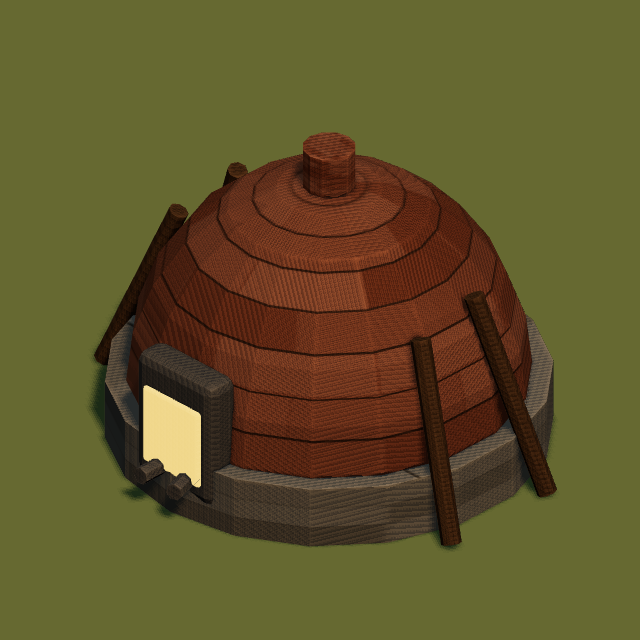
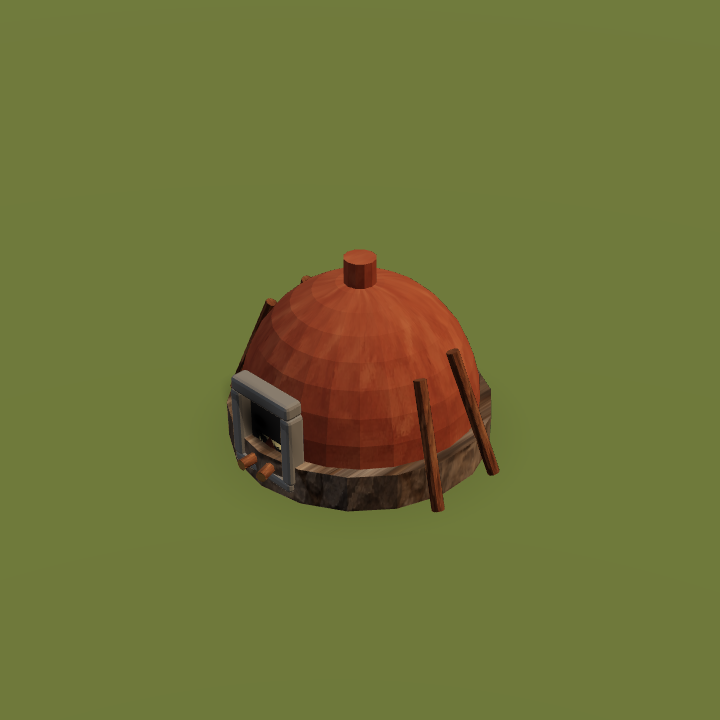
docs(buildings): round-14 renders, structures.json revision note, material table, HANDOFF addendum 11

diff --git a/assets/buildings-3d/README.md b/assets/buildings-3d/README.md
@@ -1,31 +1,90 @@
-# buildings-3d — 設置建物13種の3Dモデル（2026-11-07）
+# buildings-3d — 設置建物13種の3Dモデル（2026-11-07、テクスチャ改修 第14ラウンド）
 
 原画（`../buildings-icons/source/buildings-1.jpg` / `buildings-2.jpg`）を
 設計図として、Blenderで実モデル化した設置建物13種。単色の箱・球の
 組み合わせではなく、構造（骨組み・開口・付属設備）→輪郭→色面→質感
-（手続きテクスチャ）の順に作り込んである。
+の順に作り込んである。
+
+**第14ラウンド（2026-11-07）**: オーナー提供の素材原画3枚
+（`source-gpt/sheet-1..3.jpg`、各2×2=12素材）を使い、全13種の外観を
+改修した。手続きテクスチャは廃止し、原画由来の素材に差し替え。
+UVは全面ごとに実寸スケールへ正規化し、全建物でテクスチャ密度を
+統一した（下記「素材と適用先」参照）。
 
 ## 構成
 
 - `models/<id>.glb` — ゲーム導入用GLB（原点=接地中心、1単位=1m、前面=+Z）
-- `textures/*.png` — 手続き生成テクスチャ14種（512px、モデルに埋め込み済み。
-  単体でも環境テクスチャとして再利用可）
+- `textures/*.png` — 素材テクスチャ12種×（albedo 512px / 法線 256px /
+  粗さ 256px）＋補助4種（年輪・煤デカール・炎カード・接地影）。
+  モデルに埋め込み済み。旧・手続きテクスチャ14種は廃止（git履歴に残存）
 - `structures.json` — ID・寸法・占有形状（footprint）・入口・操作位置・
   可動部・素材メモの対応表（Claudeの組み込み用）
 - `renders/<id>.png` — three.js（ゲームと同バージョン0.180）ビューアで
   ゲームの探索カメラ（pitch 32° / yaw 45°）から撮った確認画像。
   `renders/contact-sheet.png` に13種の一覧もある
-- `tools/make_textures.py` / `tools/build_buildings.py` — 再生成パイプライン
-  （`blender -b -noaudio --python tools/build_buildings.py -- models --render`）
+- `tools/process_textures.py` — 素材加工（切り出し・タイリング化・
+  法線/粗さ生成・補助テクスチャ生成）。継ぎ目検証値は
+  `texture-report.json`、2×2タイリング確認画像は `previews/`
+- `tools/build_buildings.py` — モデル再生成
+  （`blender -b -noaudio --python tools/build_buildings.py -- models`）
+
+## 素材と適用先（第14ラウンド）
+
+素材原画は未加工の2×2シート。各素材を個別に切り出し（境界は内側に
+寄せて隣の混入を回避）、構造素材（板材・草葺き・レンガ・瓦・金属
+屋根）は模様の周期に合わせて切り抜いてタイリング化、有機素材は
+端部クロスフェードで継ぎ目を消した。原画の強い陰影は平坦化し、
+彩度・コントラストはキャラクターに合わせて抑制。
+
+法線マップは**色の明暗からではなく構造から**生成：レンガ/石積みは
+目地マスク、板材は板の溝、瓦は重なり、金属屋根はリブ、樹皮は縦の
+隆起。木目や銅の緑青などの色むらは凹凸にしていない（銅の法線は
+ほぼ平坦）。粗さは絶対値マップ（目地は粗く、銅の地金部は滑らか・
+緑青部は粗い、鋳鉄は斑で変化）。
+
+| 素材 | 主な適用先 |
+|---|---|
+| 板材 planks（木目=部材長手方向に2向き用意） | 作業台の天板・棚、水車の羽根板・導水板、研究室の実験台、工場の扉・木箱、やぐらの床・小屋 |
+| 草葺き thatch | 小屋の屋根（棟→軒の流れ＋軒先の房飾り） |
+| 土壁 earth | 小屋の壁 |
+| 樹皮 bark | 丸太部材全般（脚・柱・支柱・車軸）。切断面は年輪テクスチャを別途適用 |
+| 自然石 stone | 土台・基礎・炉の基部（広い面用 stone 大タイル／薄い面用 stone オフセット版も用意） |
+| 焼き土 clay | 窯のドーム（横線なし）、製錬炉の炉体 |
+| レンガ brick（実寸スケール） | 工場の壁・煙突、発電所のボイラー棟・煙突 |
+| 瓦 tile | 研究室の屋根 |
+| 鋳鉄 iron（斑・明度調整済み） | 蒸気機関のボイラー・台枠・フライホイール、精留塔の足場・梯子、工場の窓枠 |
+| 銅 copper（緑青は局所） | 精留塔の凝縮器・配管、蒸気機関の配管、研究室の蒸留ポット、変圧器のブッシング |
+| 金属屋根 metalroof（リブ方向2種） | 工場の鋸屋根、発電所のアーチ屋根、研究所の屋根、小屋根・庇 |
+| 漆喰 plaster | 研究室の壁、研究所の外壁、発電所のホール壁 |
+
+建物ごとの変更点（形状修正）:
+- たき火: 三角形の炎→十字の炎カード（輪郭の揺らぎ＋発光グラデ）＋
+  小さな芯コーン。熾火の粒・灰床・薪（樹皮＋年輪の切断面）を分離
+- 窯: 焚き口を石枠＋実奥行きのある暗い空洞に再構成し、発光は内部の
+  低位置のみ。煤は口周辺だけにデカールで局所配置
+- 小屋: 軒先に不揃いな草の房を追加
+- 製錬炉: 炉口に空洞＋小さな内部発光を追加
+- 窓: 白い発光板→枠＋暗いガラスが基本。光る窓は工場1枚・研究所の
+  フラスコ1点・発電所の丸窓だけに限定
+- 全建物: 接地に柔らかい放射グラデーションの影（`ContactShadow`
+  ノード）を追加。四角い地面絵の焼き込みではない。地形と干渉する
+  場合はこのノードだけ外せる
+- 水車: 橋脚の下部だけ濡れ石（暗色・低粗さ）に。回転する車輪側は
+  濡れ表現を付けていない（回転で不自然になるため）
+
+GLB合計は約24.6MB（1体あたり0.5〜2.8MB）。テクスチャ埋め込みのため
+第13ラウンド比で増えている。軽量化が必要な場合は、法線/粗さを
+落とすか albedo 256px 版の再生成（`process_textures.py` の SIZE）を
+検討すること。
 
 ## 対応表（構造物タイプ → モデル）
 
 | 構造物ID | 名称 | 対応する設備ID | サイズ W×D×H (m) | 可動部・分離部 |
 |---|---|---|---|---|
 | workbench | 作業台 | bench | 2.2×1.05×1.23 | — |
-| campfire | たき火 | campfire | 1.52×1.47×0.75 | Flame（炎、分離） |
+| campfire | たき火 | campfire | 1.52×1.47×0.83 | Flame（炎カード、分離） |
 | kiln | 窯 | kiln（かまど） | 2.46×2.28×1.6 | — |
-| hut | 小屋 | —（stage連動） | 3.8×3.38×3.16 | — |
+| hut | 小屋 | —（stage連動） | 3.8×3.40×3.16 | — |
 | smelter | 製錬炉 | furnace（簡易炉） | 3.65×2.75×2.29 | Bellows（ふいご一式） |
 | laboratory | 研究施設 | —（stage連動） | 4.6×3.22×3.8 | — |
 | steam-engine | 蒸気機関 | steamengine | 2.93×1.38×2.28 | Wheel（フライホイール）/ Piston |
@@ -33,7 +92,7 @@
 | factory | 工場 | —（stage連動） | 5.2×4.25×5.04 | — |
 | power-plant | 発電所 | —（段階建物） | 5.53×3.46×5.32 | — |
 | research-institute | 研究所 | —（stage連動） | 5.65×4.2×4.68 | — |
-| waterwheel | 水車 | waterwheel | 2.3×1.71×2.55 | Wheel（羽根板車輪） |
+| waterwheel | 水車 | waterwheel | 2.3×1.73×2.56 | Wheel（羽根板車輪） |
 | drilling-rig | 掘削やぐら | rig | 2.9×2.55×3.56 | DrillPipe / Winch |
 
 寸法は three.js 上での実測値。占有形状などの正式値は `structures.json`。
@@ -57,17 +116,24 @@
 現行の `StructureRenderer` はファクトリ差し替え式で、ヘッダーコメント
 どおり GLB 読み込みのファクトリを `registerFactory` で登録すれば
 呼び出し側は無変更で置き換わる。GLBの配信方法（単一ファイルビルドへの
-同梱か、assets 配信か）はゲーム側の構成に合わせること。モバイル向けには
-同一モデルの低ポリ版を別途出す代わりに、まず本モデルで実測し、重い
-機種だけテクスチャ 256px 版への差し替えを検討（テクスチャは
-`tools/make_textures.py` の S を変えて再生成可能）。
+同梱か、assets 配信か）はゲーム側の構成に合わせること。寸法・占有・
+入口・操作位置は第13ラウンドから不変（炎カード化でたき火の高さのみ
+0.75→0.83、水車と小屋は装飾分 +0.02）。
 
 ## 検証範囲
 
 - three.js（ゲームと同バージョン 0.180）のビューアで、ゲームの探索
   カメラ（pitch 32° / yaw 45°）から全13種を確認（renders/）。
-  可動部（Wheel / Piston / DrillPipe / Winch）の回転・移動の向きも
-  同ビューアで確認済み（Wheel は rotation.z で盤面内回転を確認）。
-  Blender の EEVEE レンダーはこの VM に libEGL がなく未実施 —
+  第13ラウンドのGLBも同じビューア・同じ画角で撮り直し、前後比較を
+  揃えた。可動部（Wheel / Piston / DrillPipe / Winch）の回転・移動も
+  再確認済み（変形後のフレーム差分で計測）。
+- スマホ相当サイズ（220px表示）でも全13種の判読性を確認済み。
+- テクスチャの継ぎ目：有機素材は継ぎ目指標 ≒1.0（継ぎ目なしと同等）。
+  構造素材は周期切り抜きで目視確認済み（`previews/tiling-*.png`）。
+  高コントラスト模様では指標が大きめに出るため目視を正とした。
+- 残課題: 窯ドームは球面UVのため、土の渦巻き模様が緩い帯状に見える
+  （レンガ状の横線ではない）。気になる場合はドーム専用の
+  テクスチャ再生成が別途必要。
+- Blender の EEVEE レンダーはこの VM に libEGL がなく未実施 —
   代替として実エンジン（three.js）での確認を優先した。
-- 実ゲーム内での配置確認は未実施（Claudeの組み込み後）。
+- 実ゲーム内での配置確認・実機 FPS は未実施（Claudeの組み込み後）。

diff --git a/threejs-hd2d-graphics/HANDOFF-TO-CLAUDE.md b/threejs-hd2d-graphics/HANDOFF-TO-CLAUDE.md
@@ -281,3 +281,38 @@ gpt-forest の上に積んだブランチ。詳細は INTEGRATION.md §16。
 - シート切り出し時にセグメンテーション（rembg / isnet-general-use）の前景マスクと照合し、フラッドフィルで前景になった画素でもモデルが背景と判定した画素を除外（全シート計86,667px）。平坦さ判定のポケット除去も仕上げに併用。
 - 結果：配線ループの内側、机の脚の間、精留塔の配管の隙間などが透過になりました。ガラス器具、紙フィルター、煙、水しぶき、結晶などの白い造形は保持。全62点をマゼンタ背景で目視確認済み。
 - ファイル名・ID・アトラス座標は引き続き不変です。
+
+---
+
+## 追補11: 建物テクスチャ改修（第14ラウンド / feature/graphics-buildings-textures）
+
+オーナー提供の素材原画3枚（建物用12素材）で全13種のGLBを改修しました。
+モデル本体の寸法・原点・前面・可動部名・footprint・入口・操作位置は
+第13ラウンドから不変です（structures.json の textureRevision 参照）。
+差し替えは GLB ファイルの差し替えのみで完了します。
+
+### 素材まわり
+- 旧・手続きテクスチャ14種は廃止。新テクスチャは `assets/buildings-3d/
+  textures/` の12素材×（albedo 512 / 法線 256 / 粗さ 256）＋補助4種。
+  すべてGLBに埋め込み済み（単体ファイルは再生成・流通用）。
+- UVは全面で実寸スケールに統一済み。法線は構造由来（目地・板の溝・
+  瓦の重なり等）で、色むらを凹凸にしていません。
+- GLB合計 約24.6MB（1体 0.5〜2.8MB）。重い場合は声をかけてください
+  （256px版の再生成が可能）。
+
+### 形状の変更（見た目のみ）
+- たき火の炎が十字カード式に（Flameノード構成は同じ。ちらつきは
+  従来どおりグループのスケールで効きます）。高さ実測 0.75→0.83m。
+- 窯・製錬炉の口は石枠＋空洞＋内部の小さな発光に。煤は窯の口周辺だけ。
+- 窓は暗いガラスが基本。光るのは工場1枚・発電所の丸窓・研究所の
+  フラスコ1点のみ。
+- 全モデルに `ContactShadow` という名前の接地影プレーンを追加。
+  地形と干渉する場合はこのノードだけ除去してください（他の形状・
+  判定には無関係）。
+
+### 検証範囲
+- three.js 0.180 ビューア、ゲームカメラ（pitch 32° / yaw 45°）で
+  全13種＋スマホ相当 220px 表示を確認。可動部も再確認済み。
+- 実ゲーム内配置・実機FPSは未確認（統合後に確認をお願いします）。
+- 既知の残課題: 窯ドームの土模様が球面UVで緩い帯状に見えます
+  （レンガの横線ではありません）。
